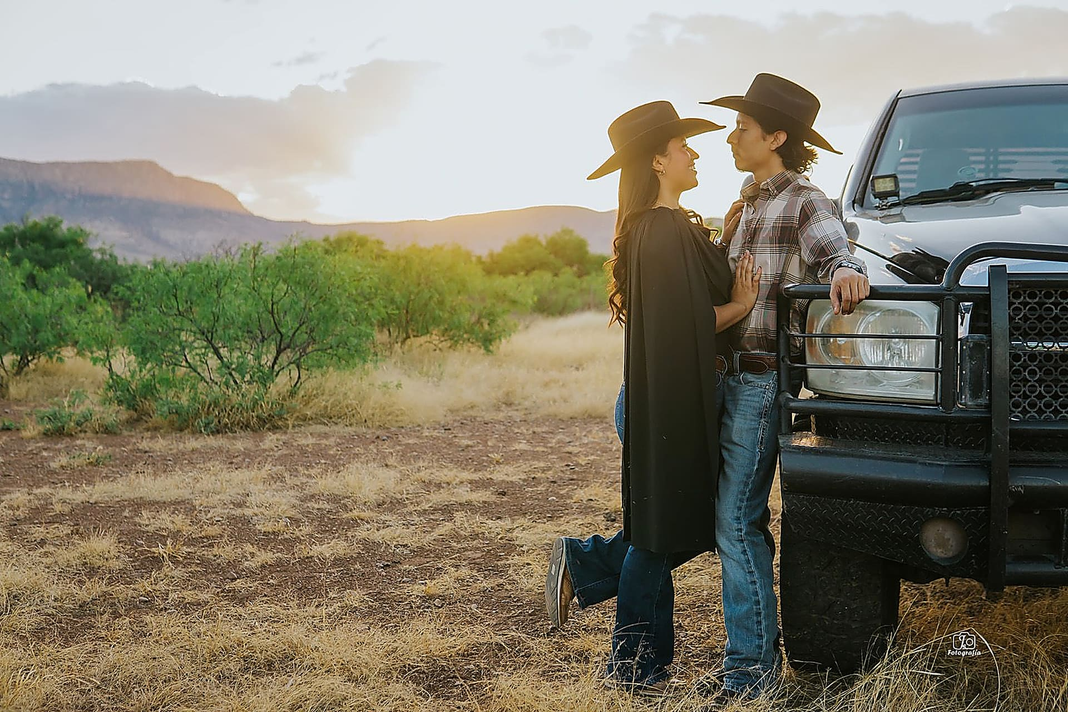
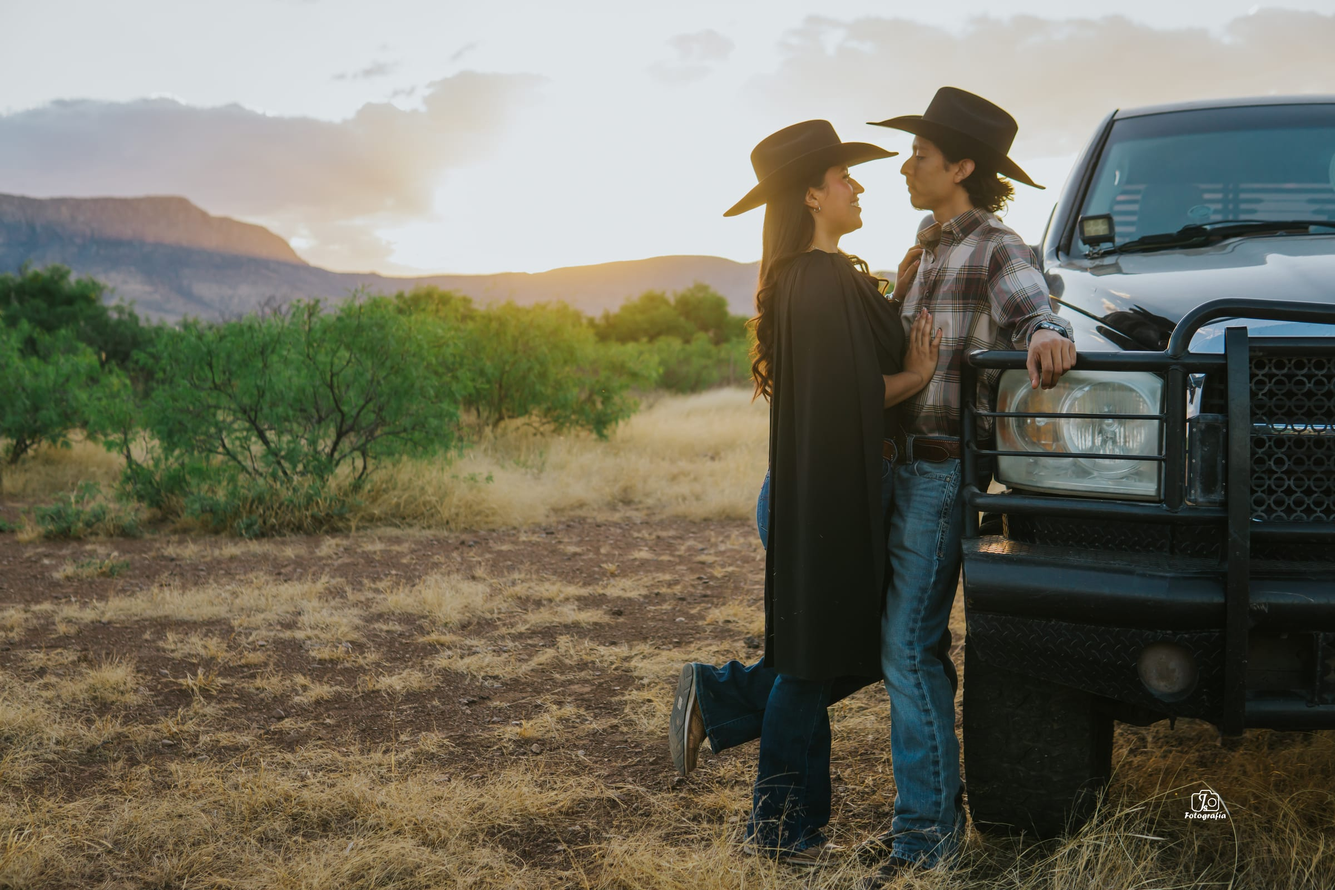
Reemplazar foto de portada por la version en alta calidad

diff --git a/index.html b/index.html
@@ -153,7 +153,7 @@ body.gate-open{overflow:hidden}
 </div>
 
 <header class="hero" id="inicio">
-  <img class="hero-photo" src="assets/img/hero-campo.jpg" alt="Samuel y Mildred en el campo">
+  <img class="hero-photo" src="assets/img/hero-campo.jpg?v=2" alt="Samuel y Mildred en el campo">
   <div class="hero-content">
     <div class="kicker">Con la bendición de nuestras familias</div>
     <div class="names">Samuel <span>&amp;</span> Mildred</div>
